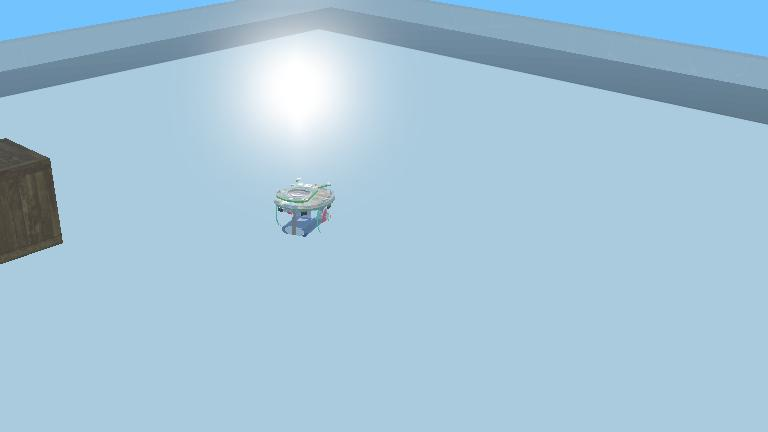
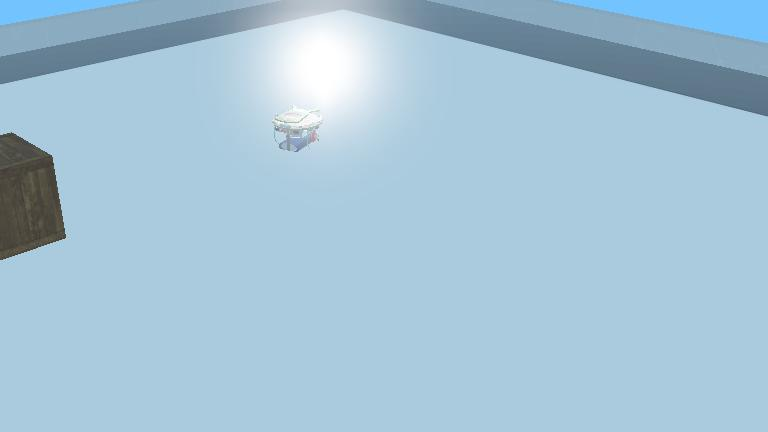
Completed Lab2

diff --git a/controllers/supervisor_lab2/supervisor_lab2.py b/controllers/supervisor_lab2/supervisor_lab2.py
@@ -1,0 +1,113 @@
+from controller import Supervisor
+import sys
+
+class SupervisorLight:
+    # Constructor
+    def __init__(self):
+        self.time_step = 32
+        self.time_light = 40
+        self.flag_light = 1 # Flag to keep track of the different positions of the light node
+        
+        # Initialising the Supervisor
+        self.supervisor = Supervisor()
+        
+        # Acquiring the Robot node from the Environment
+        self.robot_node = self.supervisor.getFromDef("Controller")
+        
+        # If the robot node doesnt exist Error
+        if self.robot_node is None:
+            sys.stderr.write("No DEF SpotLight node found in the current file")
+            sys.exit(1)
+            
+        # Acquiring the data corresponding to required fields from the Robot node
+        self.trans_field = self.robot_node.getField("translation")
+        self.rotation_field = self.robot_node.getField("rotation")
+        
+        # Acquiring the Light node from the Environment
+        self.light_node = self.supervisor.getFromDef("Light")
+        
+        # If the light node doesnt exist Error
+        if self.light_node is None:
+            sys.stderr.write("No DEF SpotLight node found in the current file")
+            sys.exit(1)
+          
+        # Acquiring the data corresponding to required fields from the Light node  
+        self.location_field = self.light_node.getField("location")
+        self.direction_field = self.light_node.getField("direction")
+     
+    # Changing the location of the nodes wrt seconds
+    def run_seconds(self, seconds):
+        
+        # Calculating the no of max iterations based on the time_step of the robot
+        stop = int((seconds * 1000) / self.time_step)
+        iterations = 0
+        
+        # Main Loop and count the number of iterations until the stop value
+        while self.supervisor.step(self.time_step) != -1:
+        
+            # When stop value is met reset.
+            if stop == iterations:
+                iterations = 0
+                
+                # Updating the Params for the Robot
+                # Translation
+                INITIAL_TRANS = [0.35, 0.20, 0]
+                self.trans_field.setSFVec3f(INITIAL_TRANS)
+                
+                # Rotation
+                INITIAL_ROTATION = [0, 1, 0, -0.0]
+                self.rotation_field.setSFRotation(INITIAL_ROTATION)
+                self.robot_node.resetPhysics()
+                
+                # Updating the Params for the SpotLight
+                # Location
+                INITIAL_LOCATION = [1.2, 1, 0.2]
+                self.location_field.setSFLocation(INITIAL_LOCATION)
+                
+                # Direction
+                INITIAL_DIRECTION = [-0.5, -0.5, -0.5]
+                self.direction_field.setSFDirection(INITIAL_DIRECTION)
+                
+            iterations += 1
+            
+    def run_demo(self):
+        # Reset physics of the robot (position and rotation)
+        # Position
+        INITIAL_TRANS = [0.35, 0.20, 0]
+        self.trans_field.setSFVec3f(INITIAL_TRANS)
+        
+        # Rotation
+        INITIAL_ROT = [0, 1, 0, -0.0]
+        self.rot_field.setSFRotation(INITIAL_ROT)
+        self.robot_node.resetPhysics()
+        
+        # Applying supervisor to alter the nodes based on timesteps
+        self.run_seconds(self.time_light)
+        
+if __name__ == "__main__":
+    model = SupervisorLight()
+    model.run_demo()
+
+
+
+
+
+
+
+
+
+
+
+
+
+
+
+
+
+
+
+
+
+
+
+
